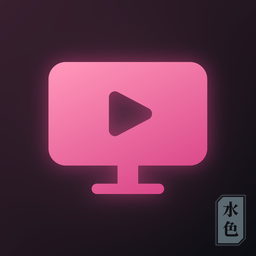
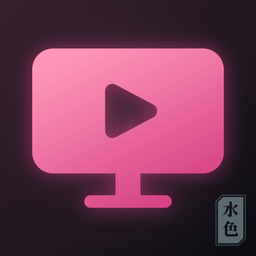
feat: menus in the order all Kai apps share, a color for every source
Settings: Library, each source with its colored dot and state, Playback or
Reading, Display (the app's own row last), About with the version, and the
project's line. A source's page: address, sign-in, options with its Color,
test, forget; it wears its color along the top, as KaiVideo's. The icon's
symbol sized by its area and centered.

diff --git a/source/settings.c b/source/settings.c
@@ -19,33 +19,34 @@ static const char *const LABELS[SETTING_COUNT] = {
     N_("Look for an update"), N_("IPTV"), N_("List type"), N_("Address"), N_("User and password"),
     N_("Guide (XMLTV)"), N_("Certificate check"), N_("Load the channels"), N_("Forget this list"),
     N_("Stremio addons"), N_("Add an addon"), N_("Addon"), N_("Addon"), N_("Addon"), N_("Addon"), N_("Addon"),
-    N_("Addon"), N_("Load the catalogs"),
+    N_("Addon"), N_("Load the catalogs"), N_("Color"), N_("Color"), N_("Color"),
 };
 #define SERVER_COLOR_COUNT (THEME_ACCENT_COUNT + 1)  // Its own, then each accent.
 static const char *const SERVER_COLOR_KEYS[SERVER_KIND_COUNT] = {"jellyfin_color", "emby_color", "plex_color"};
+static const char *const SOURCE_COLOR_KEYS[SOURCE_COLOR_COUNT] = {"network_color", "iptv_color", "addons_color"};
 static const SettingRow PAGE_ROWS[SETTINGS_PAGE_COUNT][SETTINGS_PAGE_MAX_ROWS] = {
     {SETTING_OPEN_LIBRARY, SETTING_OPEN_NETWORK, SETTING_OPEN_JELLYFIN, SETTING_OPEN_EMBY, SETTING_OPEN_PLEX,
      SETTING_OPEN_IPTV, SETTING_OPEN_ADDONS, SETTING_OPEN_PLAYBACK, SETTING_OPEN_DISPLAY, SETTING_ABOUT},
-    {SETTING_LANGUAGE, SETTING_THEME, SETTING_ACCENT, SETTING_BACKGROUND, SETTING_BLUR, SETTING_CLOCK, SETTING_COUNT},
-    {SETTING_JF_SERVER, SETTING_JF_FIND, SETTING_JF_TEST, SETTING_JF_CODE, SETTING_JF_PASSWORD, SETTING_JF_CERTIFICATE,
-     SETTING_SERVER_COLOR, SETTING_COUNT},
+    {SETTING_LANGUAGE, SETTING_ACCENT, SETTING_BACKGROUND, SETTING_BLUR, SETTING_CLOCK, SETTING_THEME, SETTING_COUNT},
+    {SETTING_JF_SERVER, SETTING_JF_FIND, SETTING_JF_CODE, SETTING_JF_PASSWORD, SETTING_JF_CERTIFICATE,
+     SETTING_SERVER_COLOR, SETTING_JF_TEST, SETTING_COUNT},
     {SETTING_LIBRARY, SETTING_RESCAN, SETTING_THUMBNAILS, SETTING_COUNT},
     {SETTING_AUTOPLAY, SETTING_JF_QUALITY, SETTING_COUNT},
-    {SETTING_NET_ADDRESS, SETTING_NET_ACCOUNT, SETTING_NET_REMEMBER, SETTING_NET_UNSIGNED, SETTING_NET_TEST,
-     SETTING_NET_FORGET, SETTING_COUNT},
+    {SETTING_NET_ADDRESS, SETTING_NET_ACCOUNT, SETTING_NET_REMEMBER, SETTING_NET_UNSIGNED, SETTING_NET_COLOR,
+     SETTING_NET_TEST, SETTING_NET_FORGET, SETTING_COUNT},
     {SETTING_CREDITS, SETTING_UPDATE_AUTO, SETTING_UPDATE_NOW, SETTING_COUNT},
     {SETTING_IPTV_KIND, SETTING_IPTV_ADDRESS, SETTING_IPTV_ACCOUNT, SETTING_IPTV_GUIDE, SETTING_IPTV_CERTIFICATE,
-     SETTING_IPTV_LOAD, SETTING_IPTV_FORGET, SETTING_COUNT},
+     SETTING_IPTV_COLOR, SETTING_IPTV_LOAD, SETTING_IPTV_FORGET, SETTING_COUNT},
     {SETTING_COUNT},  // The addons': settingsPageRows makes them.
 };
-static const SettingRow SIGNED_IN_ROWS[] = {SETTING_JF_SERVER, SETTING_JF_TEST, SETTING_JF_CERTIFICATE,
-                                            SETTING_JF_SIGN_OUT, SETTING_SERVER_COLOR, SETTING_COUNT};
+static const SettingRow SIGNED_IN_ROWS[] = {SETTING_JF_SERVER, SETTING_JF_CERTIFICATE, SETTING_SERVER_COLOR,
+                                            SETTING_JF_TEST, SETTING_JF_SIGN_OUT, SETTING_COUNT};
 static const SettingRow PLEX_ROWS[] = {SETTING_PLEX_CODE, SETTING_SERVER_COLOR, SETTING_COUNT};
-static const SettingRow PLEX_SIGNED_IN_ROWS[] = {SETTING_PLEX_SERVER, SETTING_JF_SIGN_OUT, SETTING_SERVER_COLOR,
+static const SettingRow PLEX_SIGNED_IN_ROWS[] = {SETTING_PLEX_SERVER, SETTING_SERVER_COLOR, SETTING_JF_SIGN_OUT,
                                                  SETTING_COUNT};
 // Emby has no Quick Connect: a user name and password.
-static const SettingRow EMBY_ROWS[] = {SETTING_JF_SERVER, SETTING_JF_FIND, SETTING_JF_TEST, SETTING_JF_PASSWORD,
-                                       SETTING_JF_CERTIFICATE, SETTING_SERVER_COLOR, SETTING_COUNT};
+static const SettingRow EMBY_ROWS[] = {SETTING_JF_SERVER, SETTING_JF_FIND, SETTING_JF_PASSWORD, SETTING_JF_CERTIFICATE,
+                                       SETTING_SERVER_COLOR, SETTING_JF_TEST, SETTING_COUNT};
 static const char *const PAGE_TITLES[SETTINGS_PAGE_COUNT] = {N_("Settings"), N_("Display"), "", N_("Library"),
                                                               N_("Playback"), N_("Network folder"), N_("About"), N_("IPTV"),
                                                               N_("Stremio addons")};
@@ -108,6 +109,11 @@ static bool readServerColor(Config *c, const char *line, size_t length, const ch
     for (int k = 0; k < SERVER_KIND_COUNT; k++)
         if (isKey(line, length, SERVER_COLOR_KEYS[k])) {
             c->server_color[k] = readChoice(value, SERVER_COLOR_COUNT, 0);
+            return true;
+        }
+    for (int s = 0; s < SOURCE_COLOR_COUNT; s++)
+        if (isKey(line, length, SOURCE_COLOR_KEYS[s])) {
+            c->source_color[s] = readChoice(value, SERVER_COLOR_COUNT, 0);
             return true;
         }
     return false;
@@ -190,6 +196,8 @@ void configWrite(const Config *c, FILE *f)
         fprintf(f, "subtitle_font=%s\n", c->subtitle_font);
     for (int k = 0; k < SERVER_KIND_COUNT; k++)
         fprintf(f, "%s=%d\n", SERVER_COLOR_KEYS[k], c->server_color[k]);
+    for (int s = 0; s < SOURCE_COLOR_COUNT; s++)
+        fprintf(f, "%s=%d\n", SOURCE_COLOR_KEYS[s], c->source_color[s]);
     if (c->language[0] && !strpbrk(c->language, "\r\n"))
         fprintf(f, "language=%s\n", c->language);
     fprintf(f, "update_check=%d\nupdate_checked=%lld\n", c->update_check ? 1 : 0, (long long)c->update_checked);
@@ -209,10 +217,11 @@ int settingsPageRows(SettingsPage page, bool signed_in, ServerKind kind, Setting
     int n = 0;
     if (page < 0 || page >= SETTINGS_PAGE_COUNT)
         return 0;
-    if (page == SETTINGS_PAGE_ADDONS) {  // Add, each addon, then load them.
+    if (page == SETTINGS_PAGE_ADDONS) {  // Add, each addon, their color, then load them.
         rows[n++] = SETTING_ADDONS_ADD;
         for (int i = 0; i < g_addon_count; i++)
             rows[n++] = (SettingRow)(SETTING_ADDON_FIRST + i);
+        rows[n++] = SETTING_ADDONS_COLOR;
         rows[n++] = SETTING_ADDONS_LOAD;
         return n;
     }
@@ -293,7 +302,8 @@ bool settingIsChoice(SettingRow row)
            row == SETTING_THUMBNAILS || row == SETTING_CLOCK || row == SETTING_AUTOPLAY || row == SETTING_JF_QUALITY ||
            row == SETTING_JF_CERTIFICATE || row == SETTING_SERVER_COLOR || row == SETTING_LANGUAGE ||
            row == SETTING_NET_REMEMBER || row == SETTING_NET_UNSIGNED || row == SETTING_UPDATE_AUTO ||
-           row == SETTING_IPTV_KIND || row == SETTING_IPTV_CERTIFICATE;
+           row == SETTING_IPTV_KIND || row == SETTING_IPTV_CERTIFICATE ||
+           row == SETTING_NET_COLOR || row == SETTING_IPTV_COLOR || row == SETTING_ADDONS_COLOR;
 }
 
 static int wrap(int value, int delta, int count)
@@ -313,6 +323,13 @@ void settingStep(Config *c, SettingRow row, int delta)
     case SETTING_UPDATE_AUTO: c->update_check = !c->update_check; break;
     case SETTING_JF_QUALITY: c->jf_quality = wrap(c->jf_quality, delta, QUALITY_COUNT); break;
     case SETTING_JF_CERTIFICATE: c->jf_check_certificate = !c->jf_check_certificate; break;
+    case SETTING_NET_COLOR:
+    case SETTING_IPTV_COLOR:
+    case SETTING_ADDONS_COLOR: {
+        int s = row - SETTING_NET_COLOR;
+        c->source_color[s] = wrap(c->source_color[s], delta, SERVER_COLOR_COUNT);
+        break;
+    }
     case SETTING_SERVER_COLOR: {  // For the server Settings shows.
         int k = inRange(c->server_kind, SERVER_KIND_COUNT);
         c->server_color[k] = wrap(c->server_color[k], delta, SERVER_COLOR_COUNT);
@@ -340,6 +357,13 @@ void settingValue(const Config *c, SettingRow row, char *out, size_t size)
         snprintf(out, size, "%s", c->jf_check_certificate ? T("On") : T("Off: any certificate"));
         break;
     case SETTING_LANGUAGE: snprintf(out, size, "%s", c->language_name[0] ? c->language_name : "English"); break;
+    case SETTING_NET_COLOR:
+    case SETTING_IPTV_COLOR:
+    case SETTING_ADDONS_COLOR: {
+        int choice = c->source_color[row - SETTING_NET_COLOR];
+        snprintf(out, size, "%s", choice <= 0 ? T("Its own") : themeAccentName(choice - 1));
+        break;
+    }
     case SETTING_SERVER_COLOR: {
         int k = inRange(c->server_kind, SERVER_KIND_COUNT), choice = c->server_color[k];
         if (choice <= 0)
@@ -350,6 +374,11 @@ void settingValue(const Config *c, SettingRow row, char *out, size_t size)
     }
     default: out[0] = '\0'; break;
     }
+}
+
+int settingSourceColor(const Config *c, int source)
+{
+    return source >= 0 && source < SOURCE_COLOR_COUNT ? c->source_color[source] - 1 : -1;
 }
 
 int settingServerColor(const Config *c, ServerKind kind)

diff --git a/tests/test_settings.c b/tests/test_settings.c
@@ -16,8 +16,20 @@ void testSettings(void)
 
     SettingRow rows[SETTINGS_PAGE_MAX_ROWS];
     // The main page opens the others: the library, each server, playback, display.
-    CHECK(settingsPageRows(SETTINGS_PAGE_NETWORK, false, SERVER_JELLYFIN, rows) == 6 && rows[0] == SETTING_NET_ADDRESS &&
-          rows[2] == SETTING_NET_REMEMBER && rows[3] == SETTING_NET_UNSIGNED && rows[5] == SETTING_NET_FORGET);
+    // Every source's page in one order: address, sign-in, options (its color last), test, forget.
+    CHECK(settingsPageRows(SETTINGS_PAGE_NETWORK, false, SERVER_JELLYFIN, rows) == 7 && rows[0] == SETTING_NET_ADDRESS &&
+          rows[2] == SETTING_NET_REMEMBER && rows[3] == SETTING_NET_UNSIGNED && rows[4] == SETTING_NET_COLOR &&
+          rows[5] == SETTING_NET_TEST && rows[6] == SETTING_NET_FORGET);
+    {  // The network folder's color: its own, or an accent, kept.
+        Config colors;
+        configDefaults(&colors);
+        CHECK(settingSourceColor(&colors, SOURCE_COLOR_NETWORK) == -1 && settingIsChoice(SETTING_NET_COLOR));
+        settingStep(&colors, SETTING_NET_COLOR, 1);
+        settingStep(&colors, SETTING_ADDONS_COLOR, -1);
+        CHECK(settingSourceColor(&colors, SOURCE_COLOR_NETWORK) == 0 &&
+              settingSourceColor(&colors, SOURCE_COLOR_ADDONS) == THEME_ACCENT_COUNT - 1);
+        CHECK(configReadLine(&colors, "iptv_color=3") && settingSourceColor(&colors, SOURCE_COLOR_IPTV) == 2);
+    }
     // The two switches change with the arrows, as Certificate check.
     CHECK(settingIsChoice(SETTING_NET_REMEMBER) && settingIsChoice(SETTING_NET_UNSIGNED) &&
           !settingIsChoice(SETTING_NET_FORGET));
@@ -28,10 +40,10 @@ void testSettings(void)
           rows[7] == SETTING_OPEN_PLAYBACK && rows[8] == SETTING_OPEN_DISPLAY && rows[9] == SETTING_ABOUT);
     // The addons' page: Add, a row an addon, then Load.
     settingsSetAddonCount(0);
-    CHECK(settingsPageRows(SETTINGS_PAGE_ADDONS, false, SERVER_JELLYFIN, rows) == 2 && rows[0] == SETTING_ADDONS_ADD &&
-          rows[1] == SETTING_ADDONS_LOAD);
+    CHECK(settingsPageRows(SETTINGS_PAGE_ADDONS, false, SERVER_JELLYFIN, rows) == 3 && rows[0] == SETTING_ADDONS_ADD &&
+          rows[1] == SETTING_ADDONS_COLOR && rows[2] == SETTING_ADDONS_LOAD);
     settingsSetAddonCount(99);
-    CHECK(settingsPageRows(SETTINGS_PAGE_ADDONS, false, SERVER_JELLYFIN, rows) == SETTINGS_ADDONS_MAX + 2 &&
+    CHECK(settingsPageRows(SETTINGS_PAGE_ADDONS, false, SERVER_JELLYFIN, rows) == SETTINGS_ADDONS_MAX + 3 &&
           rows[1] == SETTING_ADDON_FIRST && rows[SETTINGS_ADDONS_MAX] == SETTING_ADDON_LAST);
     settingsSetAddonCount(0);
     SettingsPage opened;
@@ -40,9 +52,10 @@ void testSettings(void)
     CHECK(settingPageOpener(SETTINGS_PAGE_ADDONS, SERVER_JELLYFIN) == SETTING_OPEN_ADDONS);
     CHECK(settingsPageNote(SETTINGS_PAGE_ADDONS, SERVER_JELLYFIN) != NULL);
     // The IPTV list's page: its type (a choice), address, account, guide, load and forget.
-    CHECK(settingsPageRows(SETTINGS_PAGE_IPTV, false, SERVER_JELLYFIN, rows) == 7 && rows[0] == SETTING_IPTV_KIND &&
+    CHECK(settingsPageRows(SETTINGS_PAGE_IPTV, false, SERVER_JELLYFIN, rows) == 8 && rows[0] == SETTING_IPTV_KIND &&
           rows[1] == SETTING_IPTV_ADDRESS && rows[2] == SETTING_IPTV_ACCOUNT && rows[3] == SETTING_IPTV_GUIDE &&
-          rows[4] == SETTING_IPTV_CERTIFICATE && rows[5] == SETTING_IPTV_LOAD && rows[6] == SETTING_IPTV_FORGET);
+          rows[4] == SETTING_IPTV_CERTIFICATE && rows[5] == SETTING_IPTV_COLOR && rows[6] == SETTING_IPTV_LOAD &&
+          rows[7] == SETTING_IPTV_FORGET);
     CHECK(settingIsChoice(SETTING_IPTV_KIND) && settingIsChoice(SETTING_IPTV_CERTIFICATE) &&
           !settingIsChoice(SETTING_IPTV_LOAD) &&
           !strcmp(settingsPageTitle(SETTINGS_PAGE_IPTV, SERVER_JELLYFIN), "IPTV") &&
@@ -85,19 +98,19 @@ void testSettings(void)
     CHECK(!strcmp(settingsPageTitle(SETTINGS_PAGE_JELLYFIN, SERVER_EMBY), "Emby"));
     CHECK(settingsPageNote(SETTINGS_PAGE_JELLYFIN, SERVER_PLEX) && !settingsPageNote(SETTINGS_PAGE_MAIN, SERVER_PLEX));
     // Signing in is offered until it's done, and signing out only then.
-    // Every server's page ends with its color.
+    // A server's page: address, sign-in, options with its color, then the test (and signing out last).
     CHECK(settingsPageRows(SETTINGS_PAGE_JELLYFIN, false, SERVER_JELLYFIN, rows) == 7 && rows[0] == SETTING_JF_SERVER &&
-          rows[1] == SETTING_JF_FIND && rows[2] == SETTING_JF_TEST && rows[3] == SETTING_JF_CODE &&
-          rows[4] == SETTING_JF_PASSWORD && rows[5] == SETTING_JF_CERTIFICATE && rows[6] == SETTING_SERVER_COLOR);
-    CHECK(settingsPageRows(SETTINGS_PAGE_JELLYFIN, true, SERVER_JELLYFIN, rows) == 5 && rows[1] == SETTING_JF_TEST &&
-          rows[2] == SETTING_JF_CERTIFICATE && rows[3] == SETTING_JF_SIGN_OUT && rows[4] == SETTING_SERVER_COLOR);
+          rows[1] == SETTING_JF_FIND && rows[2] == SETTING_JF_CODE && rows[3] == SETTING_JF_PASSWORD &&
+          rows[4] == SETTING_JF_CERTIFICATE && rows[5] == SETTING_SERVER_COLOR && rows[6] == SETTING_JF_TEST);
+    CHECK(settingsPageRows(SETTINGS_PAGE_JELLYFIN, true, SERVER_JELLYFIN, rows) == 5 && rows[1] == SETTING_JF_CERTIFICATE &&
+          rows[2] == SETTING_SERVER_COLOR && rows[3] == SETTING_JF_TEST && rows[4] == SETTING_JF_SIGN_OUT);
     CHECK(settingsPageRows(SETTINGS_PAGE_JELLYFIN, false, SERVER_PLEX, rows) == 2 && rows[0] == SETTING_PLEX_CODE);
     CHECK(settingsPageRows(SETTINGS_PAGE_JELLYFIN, true, SERVER_PLEX, rows) == 3 && rows[0] == SETTING_PLEX_SERVER &&
-          rows[1] == SETTING_JF_SIGN_OUT);
+          rows[1] == SETTING_SERVER_COLOR && rows[2] == SETTING_JF_SIGN_OUT);
     // Emby has no Quick Connect: a password only.
-    CHECK(settingsPageRows(SETTINGS_PAGE_JELLYFIN, false, SERVER_EMBY, rows) == 6 && rows[3] == SETTING_JF_PASSWORD &&
-          rows[2] == SETTING_JF_TEST);
-    CHECK(settingsPageRows(SETTINGS_PAGE_JELLYFIN, true, SERVER_EMBY, rows) == 5 && rows[3] == SETTING_JF_SIGN_OUT);
+    CHECK(settingsPageRows(SETTINGS_PAGE_JELLYFIN, false, SERVER_EMBY, rows) == 6 && rows[2] == SETTING_JF_PASSWORD &&
+          rows[5] == SETTING_JF_TEST);
+    CHECK(settingsPageRows(SETTINGS_PAGE_JELLYFIN, true, SERVER_EMBY, rows) == 5 && rows[4] == SETTING_JF_SIGN_OUT);
 
     // A server's color: its own at first, then each accent, for the server the page is for; kept.
     Config colors;
@@ -155,7 +168,7 @@ void testSettings(void)
     CHECK(settingQualityBitrate(&quality) == 420000 && settingIsChoice(SETTING_JF_QUALITY));
     CHECK(configReadLine(&quality, "jellyfin_quality=3") && settingQualityBitrate(&quality) == 20000000);
     CHECK(settingsPageRows(SETTINGS_PAGE_DISPLAY, false, SERVER_JELLYFIN, rows) == 6 && rows[0] == SETTING_LANGUAGE &&
-          rows[1] == SETTING_THEME && rows[5] == SETTING_CLOCK);
+          rows[1] == SETTING_ACCENT && rows[4] == SETTING_CLOCK && rows[5] == SETTING_THEME);
     CHECK(strcmp(settingsPageTitle(SETTINGS_PAGE_DISPLAY, SERVER_JELLYFIN), "Display") == 0);
 
     settingStep(&c, SETTING_THEME, -1);  // Wraps to the last.

diff --git a/source/settings.h b/source/settings.h
@@ -63,6 +63,9 @@ typedef enum {
     SETTING_ADDON_FIRST,    // An addon added (A twice removes it); one row each, SETTINGS_ADDONS_MAX.
     SETTING_ADDON_LAST = SETTING_ADDON_FIRST + 5,
     SETTING_ADDONS_LOAD,    // Loads their catalogs again.
+    SETTING_NET_COLOR,      // The color the network folder wears (its own, or an accent).
+    SETTING_IPTV_COLOR,     // The IPTV list's.
+    SETTING_ADDONS_COLOR,   // The addons'.
     SETTING_COUNT,
 } SettingRow;
 
@@ -89,6 +92,14 @@ typedef enum { SUBTITLE_OUTLINE, SUBTITLE_BOX, SUBTITLE_STYLE_COUNT } SubtitleSt
 typedef enum { SUBOPT_SIZE, SUBOPT_COLOR, SUBOPT_STYLE, SUBOPT_FONT, SUBOPT_COUNT } SubtitleOption;
 #define SUBTITLE_FONTS_FOLDER "fonts"  // In the config folder: .ttf and .otf files for subtitles.
 
+// The sources other than the servers that wear a color of their own (Config.source_color).
+typedef enum {
+    SOURCE_COLOR_NETWORK,
+    SOURCE_COLOR_IPTV,
+    SOURCE_COLOR_ADDONS,
+    SOURCE_COLOR_COUNT,
+} SourceColor;
+
 typedef struct {
     int theme, accent;
     char background[SETTINGS_NAME_MAX];  // A file in <library>/Backgrounds, or "" for none.
@@ -110,6 +121,7 @@ typedef struct {
     int subtitle_style;                  // SubtitleStyle.
     char subtitle_font[SETTINGS_NAME_MAX];  // A file in config/fonts, or "" for the built-in font.
     int server_color[SERVER_KIND_COUNT];  // 0: the server's own color; else the accent number + 1.
+    int source_color[SOURCE_COLOR_COUNT];  // The same for the network folder, IPTV and the addons.
     char language[SETTINGS_NAME_MAX];     // Its id: "en", "es", or a file in config/lang; "" is English.
     char language_name[SETTINGS_NAME_MAX];  // Its name, as Settings shows it (not kept: the app sets it).
     bool update_check;                    // Asks GitHub once a day for a new version.
@@ -148,6 +160,8 @@ void settingValue(const Config *c, SettingRow row, char *out, size_t size);
 long long settingQualityBitrate(const Config *c);
 // The accent a server's library wears, -1 for the server's own color.
 int settingServerColor(const Config *c, ServerKind kind);
+// The accent chosen for a source (SourceColor), or -1 for its own color.
+int settingSourceColor(const Config *c, int source);
 // How many of the options (from the first) a list offers: subtitles with their
 // own look take only the size.
 int subtitleOptionCount(bool color_applies);

diff --git a/source/app_settings.c b/source/app_settings.c
@@ -14,6 +14,7 @@
 #include "approot.h"
 #include "background.h"
 #include "buttons.h"
+#include "ui_style.h"
 #include "font.h"
 #include "jfprobe.h"
 #include "keyboard_system.h"
@@ -125,6 +126,11 @@ static void applyLooks(const App *app)
     for (int k = 0; k < SERVER_KIND_COUNT; k++) {  // Each server's own color, or the one chosen for it.
         int accent = settingServerColor(&app->config, (ServerKind)k);
         uiSetServerColor((ServerKind)k, accent < 0 ? uiServerOwnColor((ServerKind)k) : themeAccentColor(accent));
+    }
+    static const Color OWN[SOURCE_COLOR_COUNT] = {UI_NETWORK_OWN_COLOR, UI_IPTV_OWN_COLOR, UI_ADDONS_OWN_COLOR};
+    for (int s = 0; s < SOURCE_COLOR_COUNT; s++) {  // The network folder's, IPTV's and the addons' the same way.
+        int accent = settingSourceColor(&app->config, s);
+        g_source_colors[s] = accent < 0 ? OWN[s] : themeAccentColor(accent);
     }
     uiLibrarySetThumbnails(app->config.thumbnails);
     appApplySubtitleStyle(app);

diff --git a/source/ui_style.h b/source/ui_style.h
@@ -17,6 +17,11 @@
 #define COLOR_ACCENT (g_colors.accent)
 #define COLOR_ERROR (g_colors.error)
 // The sources' own colors, as the servers have theirs (uiServerColor): the library's pill and Settings' dots.
-#define UI_NETWORK_COLOR GFX_RGB(0x2E, 0xC4, 0xB6)
-#define UI_IPTV_COLOR GFX_RGB(0xF2, 0x8C, 0x28)
-#define UI_ADDONS_COLOR GFX_RGB(0x4C, 0x8D, 0xF6)
+// Each its own, or the accent chosen for it in Settings (g_source_colors, set by the app).
+#define UI_NETWORK_OWN_COLOR GFX_RGB(0x2E, 0xC4, 0xB6)
+#define UI_IPTV_OWN_COLOR GFX_RGB(0xF2, 0x8C, 0x28)
+#define UI_ADDONS_OWN_COLOR GFX_RGB(0x4C, 0x8D, 0xF6)
+extern Color g_source_colors[3];  // Network folder, IPTV, addons (settings.h's SourceColor).
+#define UI_NETWORK_COLOR (g_source_colors[0])
+#define UI_IPTV_COLOR (g_source_colors[1])
+#define UI_ADDONS_COLOR (g_source_colors[2])

diff --git a/source/ui_library.c b/source/ui_library.c
@@ -254,6 +254,7 @@ Color uiServerOwnColor(ServerKind kind)
     }
 }
 
+Color g_source_colors[3] = {UI_NETWORK_OWN_COLOR, UI_IPTV_OWN_COLOR, UI_ADDONS_OWN_COLOR};
 static Color g_server_colors[SERVER_KIND_COUNT];
 static bool g_server_color_set[SERVER_KIND_COUNT];
 
